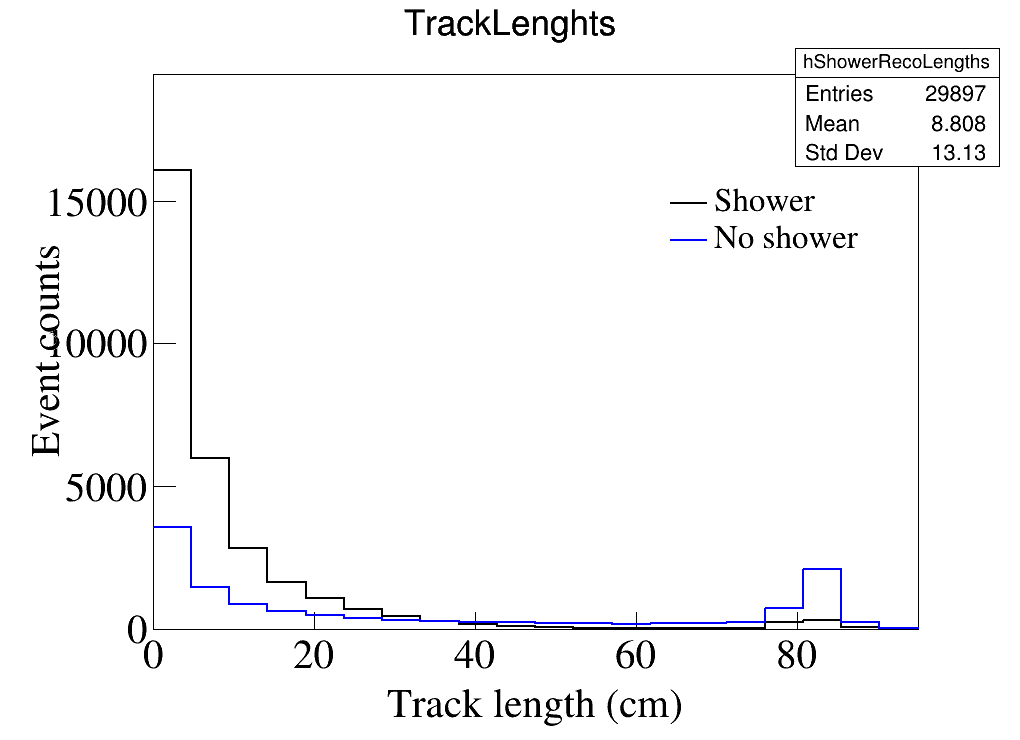
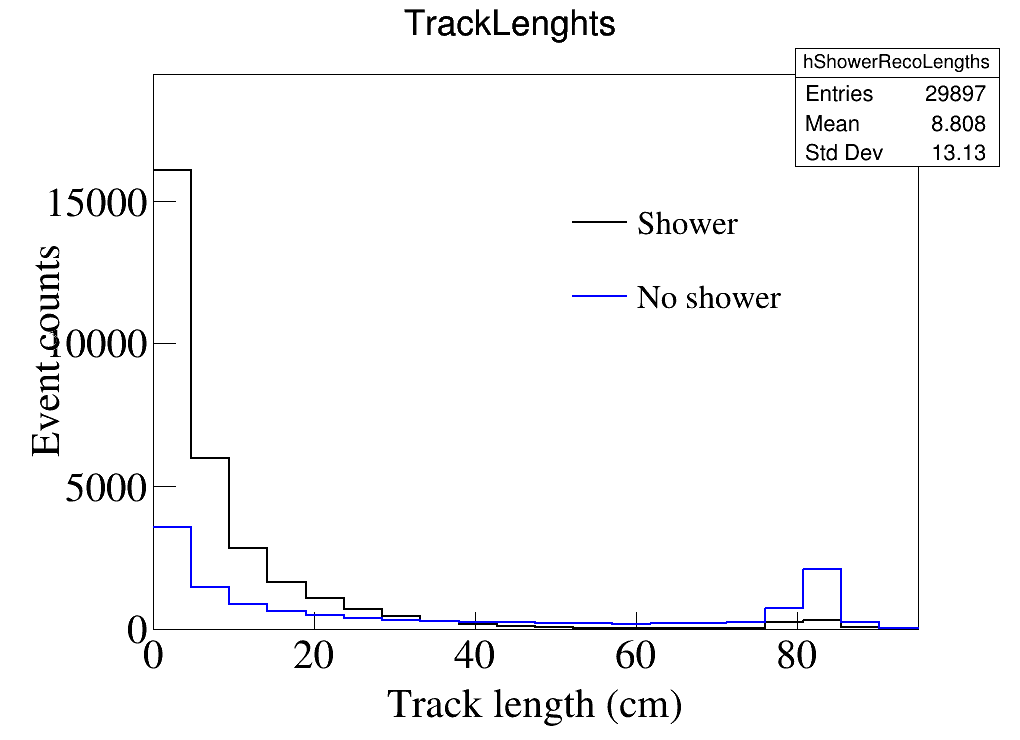
Work on curvature cut

Changed region(s): [[0.6078, 0.2486, 0.851, 0.3419], [0.6078, 0.373, 0.7598, 0.4351]]

diff --git a/ShowerAnalysis.cc b/ShowerAnalysis.cc
@@ -45,8 +45,14 @@ void ShowerAnalysis() {
     tree->SetBranchAddress("matchedIdentity", &matchedIdentity);
     tree->SetBranchAddress("matchedLength", &matchedLength);
 
-    double WCMatchCurvature;
-    tree->SetBranchAddress("WCMatchCurvature", &WCMatchCurvature);
+    double WCMeanCurvature, WCMaxCurvature;
+    tree->SetBranchAddress("WCMeanCurvature", &WCMeanCurvature);
+    tree->SetBranchAddress("WCMaxCurvature", &WCMaxCurvature);
+
+    bool isPionAbsorptionSignal;
+    int  numVisibleProtons;
+    tree->SetBranchAddress("isPionAbsorptionSignal", &isPionAbsorptionSignal);
+    tree->SetBranchAddress("numVisibleProtons", &numVisibleProtons);
 
     // Declare histograms
     TH1D *hShowerRecoLengths = new TH1D("hShowerRecoLengths", "hShowerRecoLengths;;", 20, -1,-1);
@@ -55,9 +61,15 @@ void ShowerAnalysis() {
     TH1D* hShowerSmallTracksCount = new TH1D("hShowerSmallTracksCount", "hShowerSmallTracksCount", 20, 0, 20);
     TH1D* hNoShowerSmallTracksCount = new TH1D("hNoShowerSmallTracksCount", "hNoShowerSmallTracksCount", 20, 0, 20);
 
-    TH1D* hCurvatureElectron = new TH1D("hCurvatureElectron", "hCurvatureElectron;;", 20, 0, 10);
-    TH1D* hCurvatureNegativePion = new TH1D("hCurvatureNegativePion", "hCurvatureNegativePion;;", 20, 0, 10);
-    TH1D* hCurvatureMuon = new TH1D("hCurvatureMuon", "hCurvatureMuon;;", 20, 0, 10);
+    TH1D* hMeanCurvatureElectron = new TH1D("hMeanCurvatureElectron", "hMeanCurvatureElectron;;", 20, 0, 0.03);
+    TH1D* hMeanCurvatureNegativePionBkg = new TH1D("hMeanCurvatureNegativePionBkg", "hMeanCurvatureNegativePionBkg;;", 20, 0, 0.03);
+    TH1D* hMeanCurvatureNegativePionSig = new TH1D("hMeanCurvatureNegativePionSig", "hMeanCurvatureNegativePionSig;;", 20, 0, 0.03);
+    TH1D* hMeanCurvatureMuon = new TH1D("hMeanCurvatureMuon", "hMeanCurvatureMuon;;", 20, 0, 0.03);
+
+    TH1D* hMaxCurvatureElectron = new TH1D("hMaxCurvatureElectron", "hMaxCurvatureElectron;;", 20, 0, 1);
+    TH1D* hMaxCurvatureNegativePionBkg = new TH1D("hMaxCurvatureNegativePionBkg", "hMaxCurvatureNegativePionBkg;;", 20, 0, 1);
+    TH1D* hMaxCurvatureNegativePionSig = new TH1D("hMaxCurvatureNegativePionSig", "hMaxCurvatureNegativePionSig;;", 20, 0, 1);
+    TH1D* hMaxCurvatureMuon = new TH1D("hMaxCurvatureMuon", "hMaxCurvatureMuon;;", 20, 0, 1);
 
     double TRACK_THRESHOLD = 35;
 
@@ -83,41 +95,53 @@ void ShowerAnalysis() {
 
         // Shower cut based on track curvature
         if (primaryParticlePDG == 11) { // electron
-            hCurvatureElectron->Fill(WCMatchCurvature);
+            hMeanCurvatureElectron->Fill(WCMeanCurvature);
+            hMaxCurvatureElectron->Fill(WCMaxCurvature);
         } else if (primaryParticlePDG == -211) { // negative pion
-            hCurvatureNegativePion->Fill(WCMatchCurvature);
+            if (isPionAbsorptionSignal) {
+                hMeanCurvatureNegativePionSig->Fill(WCMeanCurvature);
+                hMaxCurvatureNegativePionSig->Fill(WCMaxCurvature);
+            } else {
+                hMeanCurvatureNegativePionBkg->Fill(WCMeanCurvature);
+                hMaxCurvatureNegativePionBkg->Fill(WCMaxCurvature);
+            }
         } else if (primaryParticlePDG == 13) { // muon
-            hCurvatureMuon->Fill(WCMatchCurvature);
+            hMeanCurvatureMuon->Fill(WCMeanCurvature);
+            hMaxCurvatureMuon->Fill(WCMaxCurvature);
         }
     }
 
     // Setup for drawing plots
     std::vector<int> Colors = {
-        kBlack, kBlue, kRed, kGreen
+        kBlack, kBlue, kRed, kGreen + 2
     };
 
     std::vector<std::vector<TH1*>> PlotGroups = {
         {hShowerRecoLengths, hNoShowerRecoLengths},
         {hShowerSmallTracksCount, hNoShowerSmallTracksCount},
-        {hCurvatureElectron, hCurvatureNegativePion, hCurvatureMuon}
+        {hMeanCurvatureNegativePionSig, hMeanCurvatureNegativePionBkg, hMeanCurvatureElectron, hMeanCurvatureMuon},
+        {hMaxCurvatureNegativePionSig, hMaxCurvatureNegativePionBkg, hMaxCurvatureElectron, hMaxCurvatureMuon}
     };
 
     std::vector<std::vector<TString>> PlotLabelGroups = {
         {"Shower", "No shower"}, 
         {"Shower", "No shower"},
-        {"Electron", "Negative pion", "Muon"}
+        {"Negative pion sig", "Negative pion bkg", "Electron", "Muon"},
+        {"Negative pion sig", "Negative pion bkg", "Electron", "Muon"}
     };
 
     std::vector<TString> PlotTitles = {
         "TrackLenghts",
         "SmallTrackCounts",
-        "TrackCurvature"
+        "MeanTrackCurvature",
+        "MaxTrackCurvature"
     };
     
     std::vector<TString> XLabels = {
         "Track length (cm)",
         "# of small tracks",
-        "Curvature proxy"
+        "Mean curvature",
+        "Max curvature"
     };
 
     int numPlots = PlotGroups.size();
@@ -128,7 +152,7 @@ void ShowerAnalysis() {
         PlotCanvas->SetLeftMargin(0.15);
         PlotCanvas->SetBottomMargin(0.15);
 
-        TLegend* leg = new TLegend(0.65,0.65,0.85,0.75);
+        TLegend* leg = new TLegend(0.55,0.55,0.85,0.75);
         leg->SetBorderSize(0);
         leg->SetTextSize(TextSize * 0.8);
         leg->SetTextFont(FontStyle);
